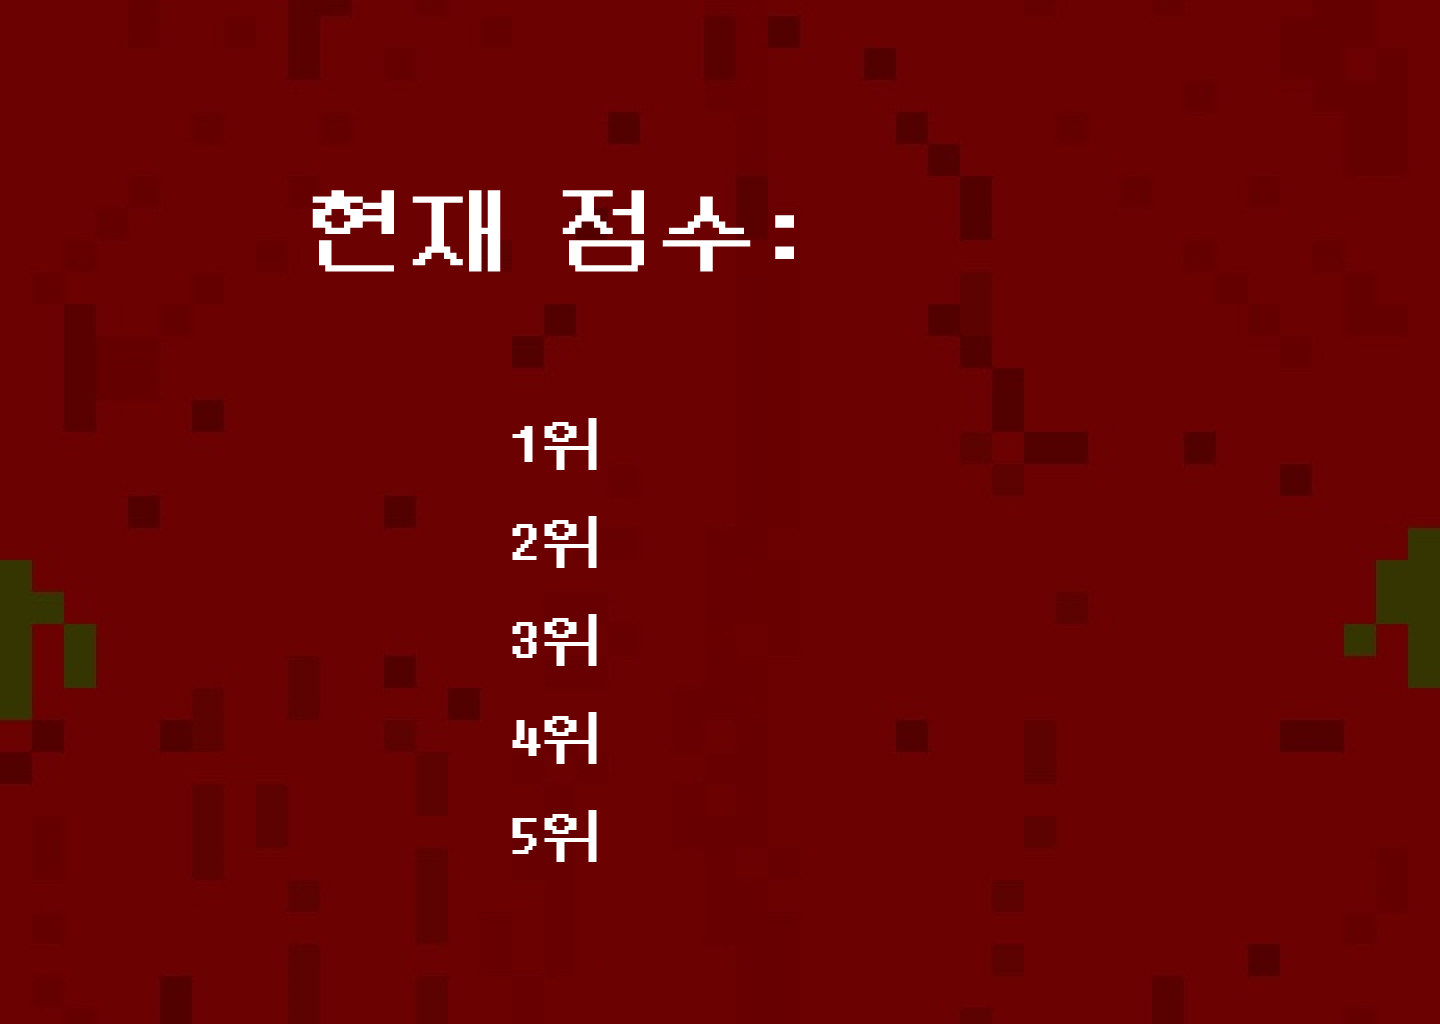
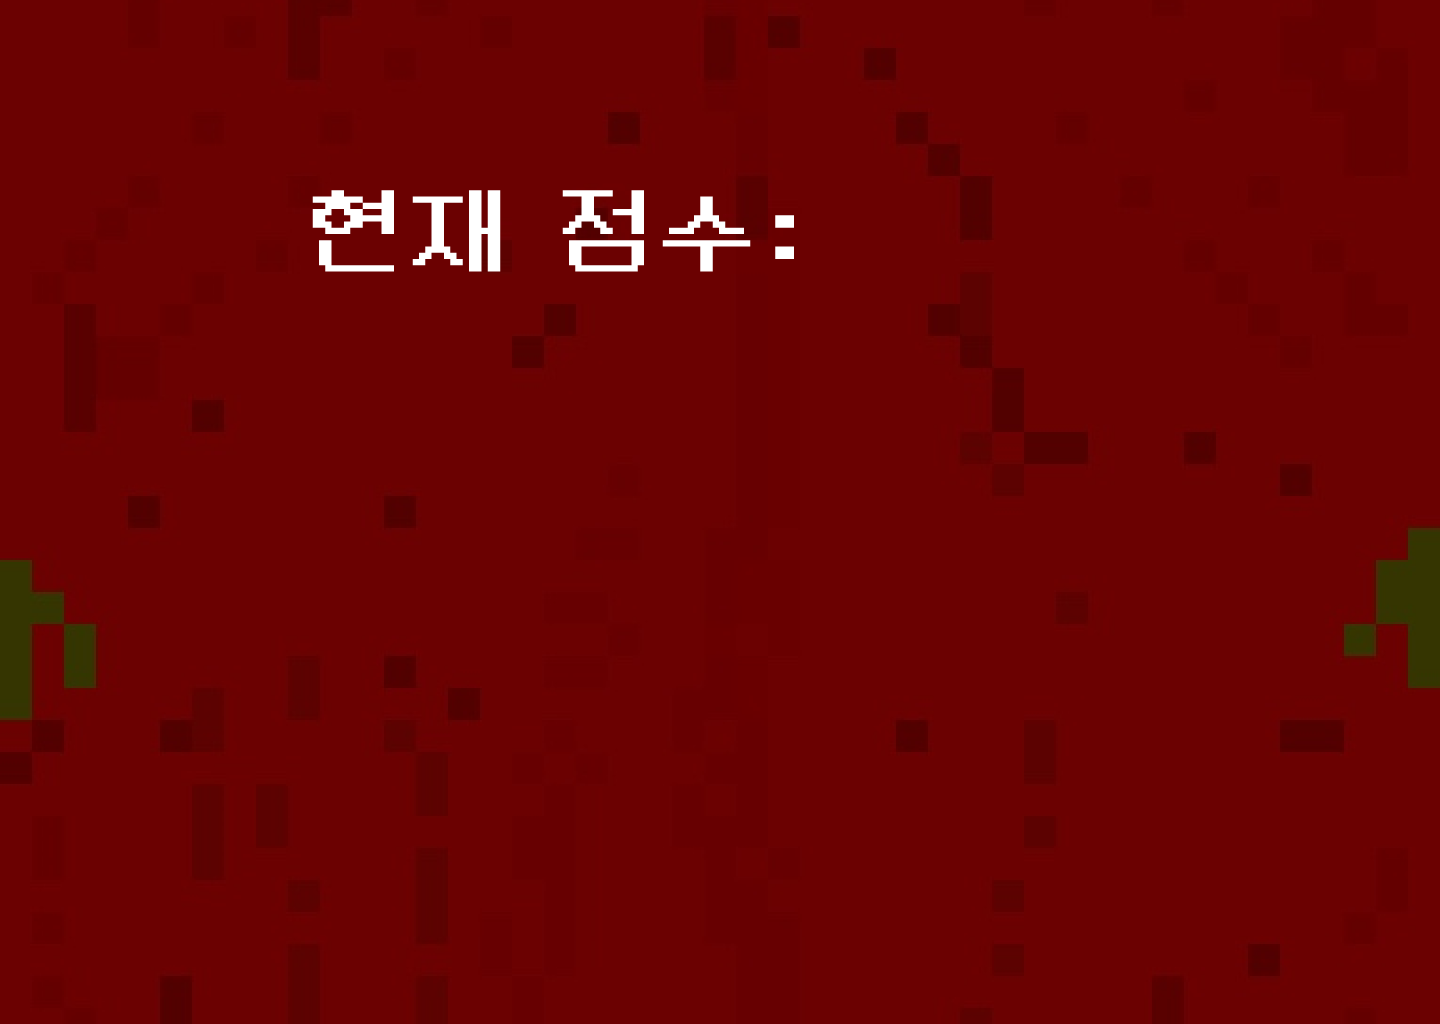
feat: 점수 저장 및 점수 랭킹 보기

diff --git a/src/musicOn/Database.java b/src/musicOn/Database.java
@@ -1,0 +1,53 @@
+package src.musicOn;
+
+
+import java.sql.*;
+import java.util.ArrayList;
+import java.util.Map;
+import static java.lang.System.getenv;
+
+public class Database {
+    Map<String, String> env = getenv();
+    static Statement state = null;
+    Connection connect = null;
+    String url = "jdbc:mysql://localhost:3306/musicon";
+    String user = "root";
+    String pw = "0000";
+
+    Database() {
+        try {
+            Class.forName("com.mysql.cj.jdbc.Driver");
+            connect = DriverManager.getConnection(url, user, pw);
+            state = connect.createStatement();
+            System.out.println("DATABASE 연동 성공!");
+        } catch (Exception e) {
+            System.out.println("DATABASE 연동 실패 : " + e.toString());
+        }
+    }
+
+    public void saveScore(String tableName, int score) {
+        String sql = "INSERT INTO " + tableName + "(score) VALUES(?)";
+        try (PreparedStatement pstmt = connect.prepareStatement(sql)) {
+            pstmt.setInt(1, score);
+            pstmt.executeUpdate();
+            System.out.println(tableName + " 점수 저장 성공: " + score);
+        } catch (SQLException e) {
+            System.out.println(tableName + " 점수 저장 실패: " + e.getMessage());
+        }
+    }
+
+    public ArrayList<Integer> getTop5Scores(String tableName) {
+        ArrayList<Integer> topScores = new ArrayList<>();
+        String sql = "SELECT score FROM " + tableName + " ORDER BY score DESC LIMIT 5";
+
+        try (PreparedStatement pstmt = connect.prepareStatement(sql);
+             ResultSet rs = pstmt.executeQuery()) {
+            while (rs.next()) {
+                topScores.add(rs.getInt("score"));
+            }
+        } catch (SQLException e) {
+            System.out.println(tableName + " 랭킹 조회 실패: " + e.getMessage());
+        }
+        return topScores;
+    }
+}

diff --git a/src/musicOn/Ending.java b/src/musicOn/Ending.java
@@ -2,6 +2,7 @@ package src.musicOn;
 
 import javax.swing.*;
 import java.awt.*;
+import java.util.ArrayList;
 
 public class Ending extends JPanel {
     private final int PANEL_WIDTH = 1440; // 화면 너비
@@ -9,9 +10,14 @@ public class Ending extends JPanel {
     private int finalScore; // 최종 점수
     private Image backgroundImage; // 배경 이미지를 위한 Image 객체
     private JLabel scoreLabel; // 최종 점수 표시를 위한 JLabel
+    private String tableName; // 게임 테이블 이름
+    private Database db;
+    private JLabel rankingLabel;
 
-    public Ending(int score) {
+    public Ending(int score, String tableName) {
         this.finalScore = score;
+        this.tableName = tableName;
+        db = new Database();
 
         // 패널 설정
         this.setPreferredSize(new Dimension(PANEL_WIDTH, PANEL_HEIGHT));
@@ -43,6 +49,23 @@ public class Ending extends JPanel {
         });
         gifTimer.setRepeats(false);
         gifTimer.start();
+
+        // 랭킹 라벨 추가
+        rankingLabel = new JLabel(getRankingString(), SwingConstants.CENTER);
+        rankingLabel.setFont(new Font("DungGeunMo", Font.BOLD, 80));
+        rankingLabel.setForeground(Color.WHITE);
+        rankingLabel.setBounds(500, 400, 400, 300); // 위치는 적절히 조정
+        this.add(rankingLabel);
+    }
+
+    private String getRankingString() {
+        ArrayList<Integer> topScores = db.getTop5Scores(tableName);
+        StringBuilder sb = new StringBuilder("<html><center><br>");
+        for (int i = 0; i < topScores.size(); i++) {
+            sb.append(i + 1).append(". ").append(topScores.get(i)).append("<br>");
+        }
+        sb.append("</center></html>");
+        return sb.toString();
     }
 
     // 배경 이미지 표시 메서드

diff --git a/src/musicOn/Chicago.java b/src/musicOn/Chicago.java
@@ -110,8 +110,17 @@ public class Chicago extends JPanel implements ActionListener {
 
     // 최종 점수 화면 표시
     private void showFinalScore() {
+        Database db = new Database();
+        try {
+            db.saveScore("chicago", score); // 점수 저장
+            System.out.println("점수 저장 완료: " + score);
+
+        } catch (Exception e) {
+            System.out.println("점수 저장 실패: " + e.getMessage());
+        }
+
         JFrame frame = (JFrame) SwingUtilities.getWindowAncestor(this);
-        Ending endingPanel = new Ending(score);
+        Ending endingPanel = new Ending(score, "chicago");
 
         frame.getContentPane().removeAll();
         frame.getContentPane().add(endingPanel);

diff --git a/src/musicOn/Wicked.java b/src/musicOn/Wicked.java
@@ -101,8 +101,17 @@ public class Wicked extends JPanel implements ActionListener {
 
     // 최종 점수 화면 표시
     private void showFinalScore() {
+        Database db = new Database();
+        try {
+            db.saveScore("wicked", score); // 점수 저장
+            System.out.println("점수 저장 완료: " + score);
+
+        } catch (Exception e) {
+            System.out.println("점수 저장 실패: " + e.getMessage());
+        }
+
         JFrame frame = (JFrame) SwingUtilities.getWindowAncestor(this);
-        Ending endingPanel = new Ending(score);
+        Ending endingPanel = new Ending(score, "wicked");
 
         frame.getContentPane().removeAll();
         frame.getContentPane().add(endingPanel);

diff --git a/src/musicOn/KinkyBoots.java b/src/musicOn/KinkyBoots.java
@@ -95,8 +95,17 @@ public class KinkyBoots extends JPanel implements ActionListener {
     }
 
     private void showFinalScore() {
+        Database db = new Database();
+        try {
+            db.saveScore("kinkyboots", score); // 점수 저장
+            System.out.println("점수 저장 완료: " + score);
+
+        } catch (Exception e) {
+            System.out.println("점수 저장 실패: " + e.getMessage());
+        }
+
         JFrame frame = (JFrame) SwingUtilities.getWindowAncestor(this);
-        Ending endingPanel = new Ending(score);
+        Ending endingPanel = new Ending(score, "kinkyboots");
 
         frame.getContentPane().removeAll();
         frame.getContentPane().add(endingPanel);
